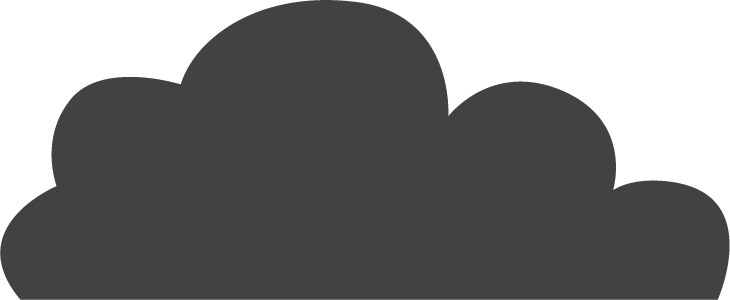
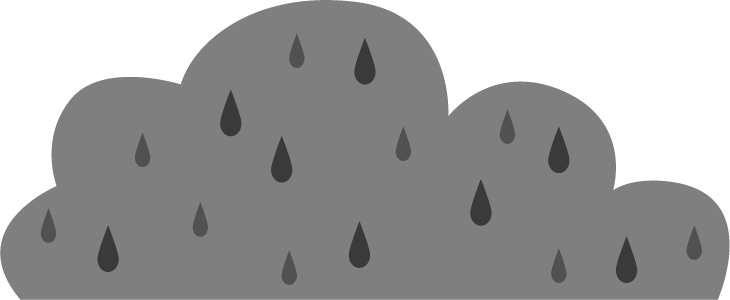
ㅗ

diff --git a/index.html b/index.html
@@ -68,7 +68,7 @@
             width: 200px;
             padding: 10px 10px;
             border-radius: 5px;
-            background-color: rgb(0, 0, 0);
+            background-color:rgb(0, 0, 0);
             color: white;
             transition: all 0.3s;
         }
@@ -101,7 +101,7 @@
               background-repeat: no-repeat;
             background-position: bottom;
              background-size: contain;
-             opacity: 0.7;
+             /* opacity: 0.7; */
             width: 600px;
             height: 500px;
             position: absolute;
@@ -112,6 +112,19 @@
             /* border: 1px solid red; */
            z-index: -2;
         }
+        .bolock{
+            background-image: url(./img/3.png);
+             background-repeat: no-repeat;
+            background-position: bottom;
+             background-size: contain;
+            position: absolute;
+            width: 400px;
+            height: 500px;
+             bottom: 0;
+            left: 0;
+            z-index: -2;
+        }
+        
     </style>
 </head>
 <body>
@@ -133,6 +146,7 @@
         
     </div>
     <div class="back"></div>
+    <div class="bolock"></div>
 
  
 